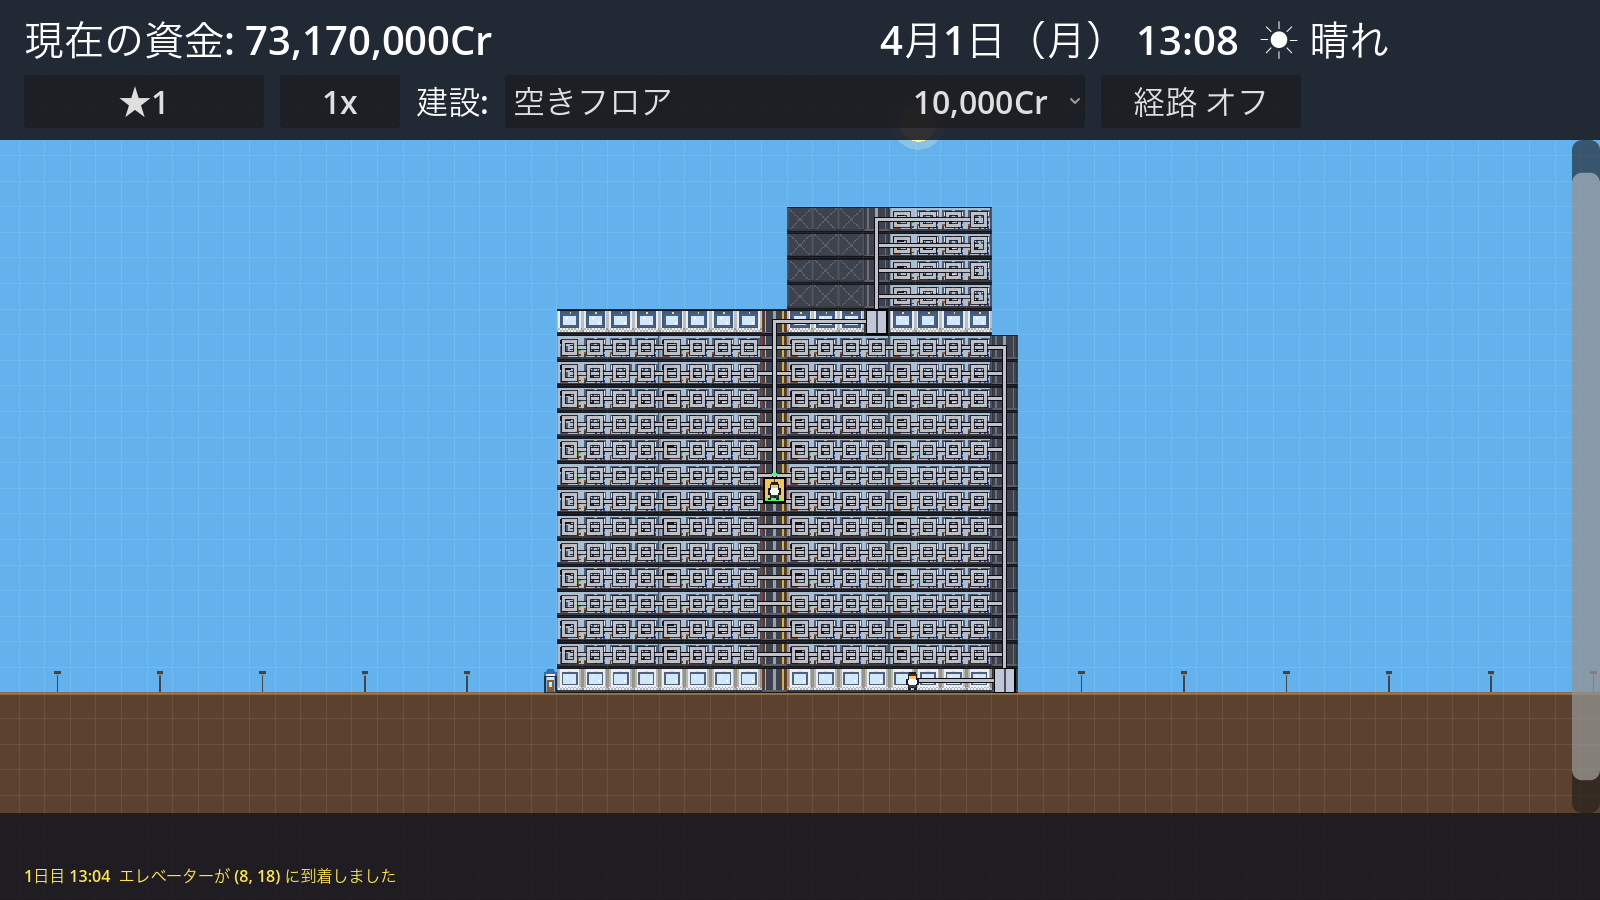
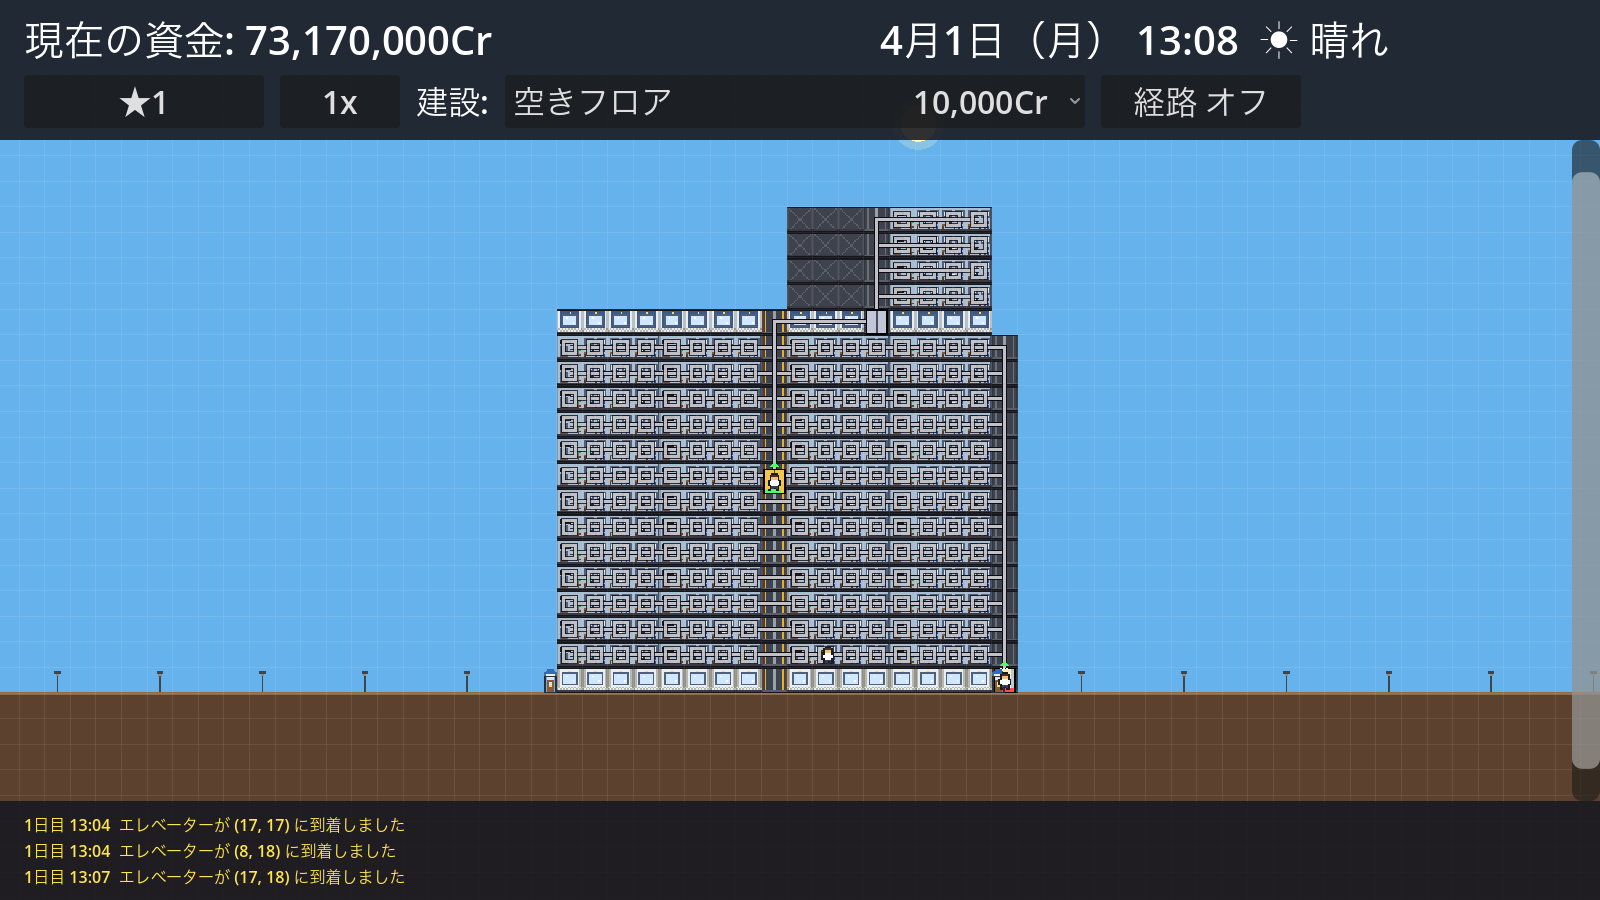
feat: ロビーの右端も出入り口にし、入口を左右の出入り口・地下鉄駅・地下駐車場の4種類にする
- 1階の出入り口はロビーの左端と右端（ロビーが1マスなら1つ）。右の出入り口にも扉のアイコンと照明を付ける
- 車で下りてこられる地下駐車場も入口にする（人は一番近い入口を使う）
- README・仕様書を更新し、READMEの画像を作り直す

diff --git a/README.md b/README.md
@@ -190,7 +190,7 @@ godot --path . -s res://tools/generate_readme_images.gd
 「はじめから」を押すと、資金200万Crで、1日目（4月1日・月曜日）の7:30に、建物が何もない**更地**から始まります。地面の線が1階の床で、その下は地下です。
 
 **はじめの一歩**
-1. 建設メニューで「ロビー」を選び、1階（地面の線のすぐ上の段）をクリックして横に並べます。ロビーの左端が入口になり、人はここから出入りします。
+1. 建設メニューで「ロビー」を選び、1階（地面の線のすぐ上の段）をクリックして横に並べます。ロビーの左端と右端が出入り口になり、人はここから出入りします。
 2. 「エレベーター」をロビーの隣の1階から上へ縦に並べるか、「階段」を置いて、上の階へ行けるようにします。
 3. 2階から上に、オフィスやホテルなどのテナントを建てます（1階はロビー専用なので、テナントは建てられません）。
 
@@ -242,7 +242,14 @@ godot --path . -s res://tools/generate_readme_images.gd
 | 20:00 | 火事が起きることがある（★2以上） | 同じ |
 | 0:00 | 前日の決算（収支が資金に反映） | 同じ |
 
-人はビルの**入口**から出入りします。入口はロビー（地下鉄駅）の左隣に、マスの半分の幅の小さなアイコン（庇の付いた両開きの扉）で表示されます。庇の色は1階の入口が青、地下鉄駅が水色です。人は近い方の入口を使います。入口からたどり着けない建物には人が来ません。
+人はビルの**入口**から出入りします。入口は次の4種類で、人は一番近い入口を使います。入口からたどり着けない建物には人が来ません。
+
+- **1階の左の出入り口**（ロビーの左端）
+- **1階の右の出入り口**（ロビーの右端。ロビーが1マスだけなら左と同じ1つ）
+- **地下鉄駅**
+- **地下駐車場**（スロープで車が下りてこられる駐車場だけ。車で来た人が駐車場に現れる）
+
+1階の出入り口と地下鉄駅には、マスの半分の幅の小さなアイコン（庇の付いた両開きの扉）が出ます。左の出入り口と地下鉄駅は建物の左隣、右の出入り口は右隣です。庇の色は1階の出入り口が青、地下鉄駅が水色です。
 
 ### 建てられるもの
 
@@ -284,7 +291,7 @@ godot --path . -s res://tools/generate_readme_images.gd
 
 | 絵 | 名前 | 大きさ | 建設費 | 内容 |
 |---|---|---|---|---|
-| ![ロビー](docs/images/buildings/lobby.png) | ロビー | 1マス | 1.5万Cr/マス | 1階専用。1マスずつ横に伸ばせる。左端が入口になる（一晩中明かりが灯る） |
+| ![ロビー](docs/images/buildings/lobby.png) | ロビー | 1マス | 1.5万Cr/マス | 1階専用。1マスずつ横に伸ばせる。左端と右端が出入り口になる（一晩中明かりが灯る） |
 | ![吹き抜けロビー（2階分）](docs/images/buildings/lobby2.png) | 吹き抜けロビー（2階分） | 1マス・高さ2階分 | 3万Cr/マス | 天井の高いロビー。上の階には床がないので、人が歩くのは1階だけ |
 | ![吹き抜けロビー（3階分）](docs/images/buildings/lobby3.png) | 吹き抜けロビー（3階分） | 1マス・高さ3階分 | 4.5万Cr/マス | 同じく3階分の高さ |
 | ![空きフロア](docs/images/buildings/frame.png) | 空きフロア | 1マス | 1万Cr | 骨組みだけのフロア。すき間を埋めて、上の階を建てられるようにする。通り抜けでき、その上にそのまま建物を建てられる |
@@ -310,7 +317,7 @@ godot --path . -s res://tools/generate_readme_images.gd
 | ![ゴミ処理場](docs/images/buildings/recycling.png) | ゴミ処理場 | 横3マス | 15万Cr | 5,000Cr | 1施設で1日20のゴミを処理。足りない分は外部委託（1につき1,000Cr）。足りない日が続くとビルが汚れる |
 | ![警備室](docs/images/buildings/security.png) | 警備室 | 横2マス | 10万Cr | 5,000Cr | 警備員が1人常駐し、爆弾の捜索・解体と消火に向かう。★2にも必要 |
 | ![メディカルセンター](docs/images/buildings/medical.png) | メディカルセンター | 横3マス | 20万Cr | 1万Cr | ビル全体のストレスの回復が速くなる（1施設で1.5倍、増やすほど速く、最大2.5倍）。★3にも必要 |
-| ![地下鉄駅](docs/images/buildings/subway.png) | 地下鉄駅 | 横4マス | 100万Cr | 1万Cr | **地下5階より深いところ**にだけ建てられる。2つ目の入口になり、店・映画館のお客さんが1駅につき5割増える（最大2倍）。★4にも必要 |
+| ![地下鉄駅](docs/images/buildings/subway.png) | 地下鉄駅 | 横4マス | 100万Cr | 1万Cr | **地下5階より深いところ**にだけ建てられる。入口の1つになり、店・映画館のお客さんが1駅につき5割増える（最大2倍）。★4にも必要 |
 | ![スロープ](docs/images/buildings/ramp.png) | スロープ | 横2マス | 20万Cr | 2,000Cr | 車が下りてくる道。地下1階のスロープが1階からの入口で、その真下の階にもスロープを建てると、さらに下の階まで車で下りられる |
 | ![地下駐車場](docs/images/buildings/parking.png) | 地下駐車場 | 横4マス | 30万Cr | 5,000Cr | 1棟に4台。地下の何階にでも建てられるが、**同じ階**のスロープまで行ける駐車場だけが使える（車は階段では下りられない） |
 | ![ヘリポート](docs/images/buildings/helipad.png) | ヘリポート | 横4マス | 80万Cr | 1万Cr | 屋上（上に建物がないところ）にだけ建てられる。火事のとき、消防ヘリが飛んできて上の階の火から消す |
@@ -318,7 +325,7 @@ godot --path . -s res://tools/generate_readme_images.gd
 
 **映画館の混雑:** 上映の30分前から客が集まり、終わると一斉に帰ります。短い時間にエレベーターへ人が殺到するので、カゴを増やすか、エスカレーターや階段を近くに用意しておくと安心です。
 
-**外から来るお客さん:** 飲食店・ファストフードとショップには、入口（1階のロビーか地下鉄駅）から外のお客さんが来ます。平日は11〜14時、休日は10〜17時です。休日は社員が来ないぶん、店の稼ぎが頼りになります。店まで歩ける道がないと、お客さんは来ません。
+**外から来るお客さん:** 飲食店・ファストフードとショップには、入口（1階の左右の出入り口・地下鉄駅・地下駐車場）から外のお客さんが来ます。平日は11〜14時、休日は10〜17時です。休日は社員が来ないぶん、店の稼ぎが頼りになります。店まで歩ける道がないと、お客さんは来ません。
 
 **車で来るお客さん:** 使える駐車場があると、昼（11〜14時）に1台につき2人がやって来て、一番近い飲食店で食事をして帰ります（1人1,000Cr）。駐車場から飲食店まで歩ける道（階段やエレベーター）がないと、誰も来ません。飲食店が1つもない日も来ません。
 

diff --git a/docs/Game_Spec.md b/docs/Game_Spec.md
@@ -26,7 +26,8 @@
 - 1階の高さ（y座標）は `scripts/main.gd` の `GROUND_FLOOR_Y` で固定する。それより下が地下。
 - 建てられる階の制限は、`BUILDINGS` の各建物の `"floors"` で決める（`"ground"`: 1階だけ、`"basement"`: 地下だけ、`"any"`: どこでも、`"sky_lobby"`: 15階ごとの階だけ、省略: 1階以外）。
 - 建物の支えは `get_support_problem()`（建設）と `get_demolish_problem()`（撤去）で判定する。地上は一番下の階の全部のマスの真下、地下は一番上の階の全部のマスの真上に建物が必要。
-- 人はロビーの左端（1階の入口）から出入りするので、まずロビーを建てないと誰もビルに来ない。
+- 人はロビーの左端と右端（1階の出入り口）から出入りするので、まずロビーを建てないと誰もビルに来ない。
+- 入口（`main.get_entrances()`）は、1階の左右の出入り口（`get_ground_entrances()`。ロビーが1マスなら1つ）・地下鉄駅・地下駐車場（`parking_system.usable_units`。スロープで車が下りてこられるものだけ）の4種類。人は一番近い入口（`nearest_entrance()`）を使う。
 
 ## 2. 交通・インフラ系（動線・ボトルネックの要）
 
@@ -40,8 +41,8 @@
 | エスカレーター | ✅ | 商業施設エリア（映画館や店舗）の大量輸送向け。エレベーターの負担を減らす | 横2マスの建物 `escalator`。左のマス（乗り口）と1つ上の階の右のマス（降り口）を斜めにつなぐ（上り下りとも）。移動コストは1階分 1.0（階段 2.0）で、定員・待ち時間なし。維持費 2,000Cr/日 |
 | 標準エレベーター | ✅ | 一般的な昇降機。待機階（ホーム）の設定や、稼働時間帯の指定による運行ダイヤ調整が可能 | 定員・複数カゴ・集合制御・群管理に加えて、シャフトごとの待機階（`elevator_system.home_floors`）と稼働時間帯（`service_hours`。終日／6時〜24時／8時〜20時）を実装。時間帯の外では呼べず、経路にも使われず、カゴは待機階に戻る |
 | サービスエレベーター | ✅ | 清掃員（ハウスキーパー）と警備員専用の裏方動線。一般客は乗れない | シャフトの種類 `service_elevator`。`get_moves()`・`find_path()` に「裏方かどうか（`staff`）」を渡し、裏方だけ乗れるようにした。今の裏方は清掃員（警備員はまだ人として登場しない） |
-| 地下駐車場・スロープ | ✅ | 商業施設や映画館の集客力を上げるための必須インフラ | 地下専用の `parking`（横4マス・4台）と `ramp`（横2マス）。スロープは地下のどの階にも建てられ、地下1階から途切れずに続いている（`connected_ramps()`）ものだけ車が下りてこられる。駐車場は同じ階のスロープまで行けるときだけ使え、`parking_system` が台数×2人の来客を昼に呼ぶ。行き先は飲食店とショップ。さらに、映画館の1回の客が台数ぶん増える |
-| 地下鉄駅 | ✅ | 地下深く（B10階など）に設置することで、1階エントランス以外からの巨大な人員流入ゲートとなる | 地下5階（`main.SUBWAY_MIN_DEPTH`）より深いところにだけ建てられる2つ目の入口。駅1つにつき、店・映画館へ来る外からのお客さんが+50%（最大2倍。`visitor_system.subway_rate()`） |
+| 地下駐車場・スロープ | ✅ | 商業施設や映画館の集客力を上げるための必須インフラ | 地下専用の `parking`（横4マス・4台）と `ramp`（横2マス）。スロープは地下のどの階にも建てられ、地下1階から途切れずに続いている（`connected_ramps()`）ものだけ車が下りてこられる。駐車場は同じ階のスロープまで行けるときだけ使え、使える駐車場は入口の1つにもなる（社員・宿泊客なども、近ければ駐車場から出入りする）。`parking_system` が台数×2人の来客を昼に呼ぶ。行き先は飲食店とショップ。さらに、映画館の1回の客が台数ぶん増える |
+| 地下鉄駅 | ✅ | 地下深く（B10階など）に設置することで、1階エントランス以外からの巨大な人員流入ゲートとなる | 地下5階（`main.SUBWAY_MIN_DEPTH`）より深いところにだけ建てられる入口の1つ。駅1つにつき、店・映画館へ来る外からのお客さんが+50%（最大2倍。`visitor_system.subway_rate()`） |
 
 ## 3. テナント・施設系（資金源とノイズ源）
 

diff --git a/Tasks.md b/Tasks.md
@@ -100,6 +100,7 @@
   - [x] 映画館の上映中と閉館の違いがわからない（スクリーンに映画を映し、場内を暗くする。閉館中は幕を閉じる。カーソルの説明にも 上映中・開場中・閉館 を出す）
   - [x] 建設メニューの「撤去」に金額が出ていない（「2,000Cr〜」と出す。待機階・稼働時間帯・VIP専用・家賃・住人（テスト）は「無料」と出す）
   - [x] 「住人（テスト）」は遊ぶときには建設メニューに出さない（テストのときだけ出す。main.test_tools）
+  - [x] 入口がロビーの左端だけだった（右端も出入り口にする。入口は 1階の左右の出入り口・地下鉄駅・地下駐車場 の4種類）
 
 ### 新しい要素
 - [x] 屋上庭園（屋上に建てられる憩いの場。ストレスが回復し、騒音もやわらぐ）
